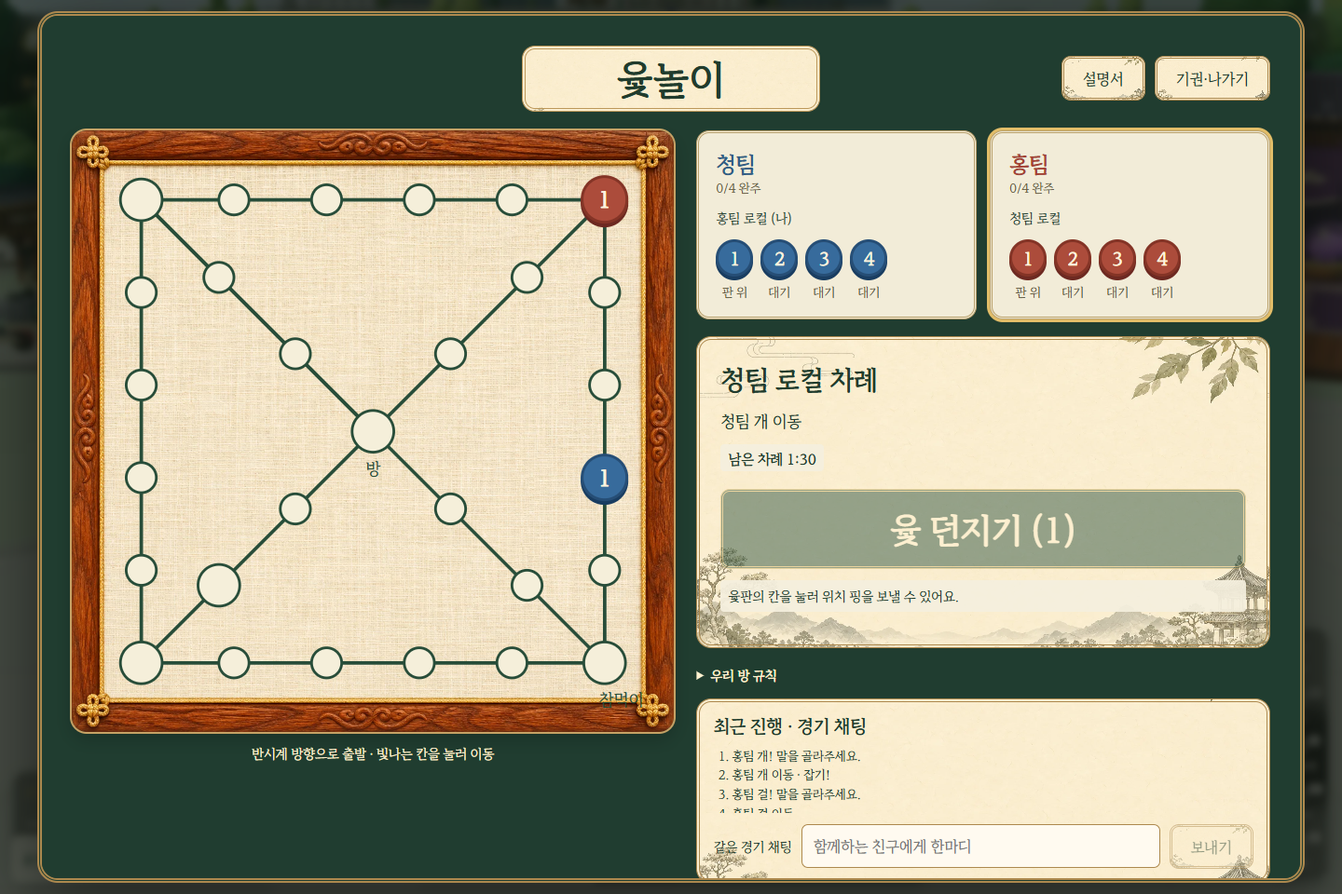
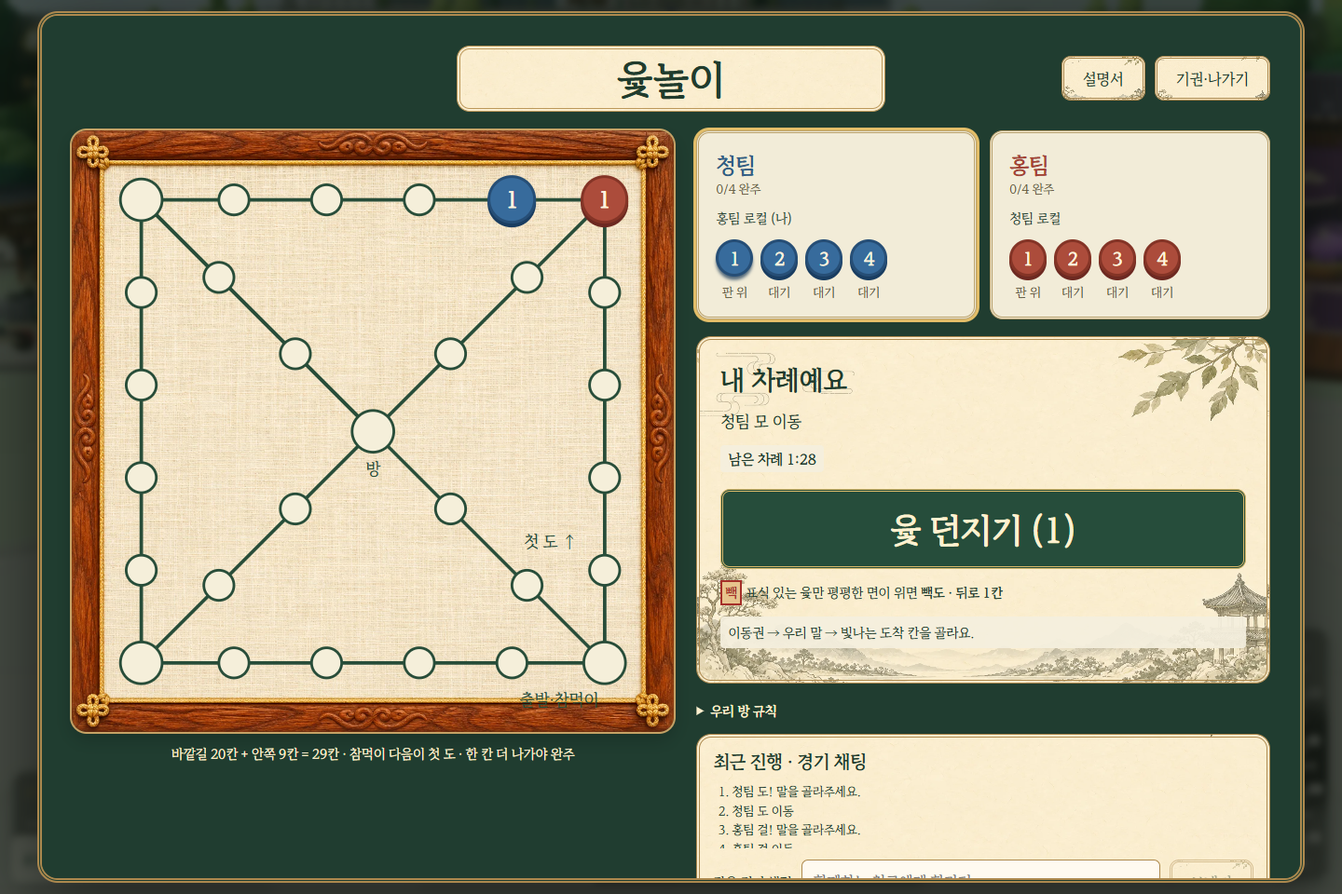
fix(yutnori): 팀 설정과 29칸 윷판 및 빽도 표시 개선

diff --git a/frontend/src/game/yutnori/YutHost.tsx b/frontend/src/game/yutnori/YutHost.tsx
@@ -4,6 +4,7 @@ import { estimatedServerTime } from '../../network/worldClient'
 import type { CoopTransport } from '../../features/skewer/coop/contracts'
 import { YutClient } from './client'
 import { Board } from './Board'
+import { StickResult } from './StickResult'
 import { defaultRules, teamName, type YutRules } from './contracts'
 import cover from './art/cover.webp'
 import './yutnori.css'
@@ -14,6 +15,8 @@ export default function YutHost({ transport, onClose }: { transport: CoopTranspo
   const [page, setPage] = useState<'catalog' | 'rooms' | 'create'>('catalog')
   const [name, setName] = useState('함께 노는 윷판')
   const [rules, setRules] = useState<YutRules>({ ...defaultRules })
+  const [teamCount, setTeamCount] = useState(2)
+  const [pieceCount, setPieceCount] = useState(4)
   const [selected, setSelected] = useState(-1)
   const [rollId, setRollId] = useState(-1)
   const [confirmExit, setConfirmExit] = useState(false)
@@ -25,19 +28,21 @@ export default function YutHost({ transport, onClose }: { transport: CoopTranspo
   const own = pub?.players.find(player => player.userId === user)
   const spectator = snapshot?.role === 'SPECTATOR'
   const playing = pub?.phase === 'PLAYING'
+  const eliminated = own !== undefined && pub?.eliminatedTeams.includes(own.team)
+  const teams = Array.from({ length: pub?.teamCount ?? teamCount }, (_, i) => i)
   useEffect(() => {
     if (!playing) return
     const timer = setInterval(() => refreshClock(value => value + 1), 1000)
     return () => clearInterval(timer)
   }, [playing])
   const seconds = Math.max(0, Math.ceil(((pub?.deadline ?? 0) - estimatedServerTime()) / 1000))
-  const myTurn = playing && !spectator && pub.turnUser === user
+  const myTurn = playing && !spectator && !eliminated && pub.turnUser === user
   const busy = pending || !connected || uncertain
   const activeRoll = pub?.rolls.find(roll => roll.id === rollId) ?? pub?.rolls[0]
   const destinations = myTurn && !busy ? pub.moves.filter(move => move.piece === selected && move.rollId === activeRoll?.id) : []
   const finished = pub?.phase === 'FINISHED'
   const leave = async (forfeit = false) => { if (!snapshot || await client.leave(forfeit)) onClose() }
-  const close = () => { if (pending) return; if (playing && !spectator) setConfirmExit(true); else void leave() }
+  const close = () => { if (pending) return; if (playing && !spectator && !eliminated) setConfirmExit(true); else void leave() }
   useEffect(() => { client.start(); return () => client.stop() }, [client])
   useEffect(() => {
     const previous = document.activeElement instanceof HTMLElement ? document.activeElement : null
@@ -51,64 +56,67 @@ export default function YutHost({ transport, onClose }: { transport: CoopTranspo
   return <dialog ref={dialog} className="yut-shell" aria-labelledby="yut-title" onCancel={event => { event.preventDefault(); close() }}>
     <header className="yut-header"><h1 ref={title} tabIndex={-1} id="yut-title">{titleText}</h1><div>
       <button type="button" onClick={() => setManual(value => !value)} aria-expanded={manual}>설명서</button>
-      <button type="button" onClick={close} disabled={pending}>{playing && !spectator ? '기권·나가기' : '공원으로'}</button>
+      <button type="button" onClick={close} disabled={pending}>{playing && !spectator && !eliminated ? '기권·나가기' : '공원으로'}</button>
     </div></header>
     {error && <p className="yut-error" role="alert">{error} <button onClick={() => void client.refresh()}>새로고침</button></p>}
     {!connected && <p className="yut-error" role="status">공원 연결을 확인하고 있어요. 다시 연결되면 방 상태를 불러옵니다.</p>}
     {uncertain && <p className="yut-error" role="alert">이전 입력의 처리 여부를 확인해야 해요. <button onClick={() => void client.retry()} disabled={pending}>같은 입력 재확인</button></p>}
-    {manual && <section className="yut-manual" aria-label="윷놀이 설명서"><h2>네 말을 먼저 내보내면 승리!</h2>
+    {manual && <section className="yut-manual" aria-label="윷놀이 설명서"><h2>우리 팀 말을 모두 내보내면 승리!</h2>
       <p>평평한 면이 위인 개수대로 도 1칸 · 개 2칸 · 걸 3칸 · 윷 4칸 · 모 5칸. 표시된 윷 하나만 위면 빽도예요. 윷·모는 한 번 더 던져요.</p>
       <p>이동권 → 말 → 빛나는 도착 칸을 순서대로 골라요. 모서리·중앙에 정확히 멈춘 뒤에만 지름길을 선택할 수 있어요. 같은 팀 말은 자동으로 업고, 잡히면 함께 대기석으로 돌아와요.</p>
       <p>상대를 잡으면 추가 던지기! 참먹이에 딱 멈추면 아직 완주가 아니에요. 한 칸 이상 더 나가야 해요. 낙은 남은 이동권과 던지기를 잃고 차례를 넘겨요. 한 차례는 90초예요.</p>
-      <p>2~4명이 청팀·홍팀 각 네 말을 공유해요. 팀 안에서도 번갈아 조작해요. 선공은 대표가 윷 두 개씩 던져 정하며 동률은 재던져요. 판·스택의 숫자는 말 번호 또는 업힌 말 개수예요.</p>
+      <p>2~4명이 참가하고, 방장이 2~4팀과 팀마다 말 1~4개를 정해요. 선택한 모든 팀에 한 명 이상 필요해요. 팀 안에서도 번갈아 조작해요. 선공은 대표가 윷 두 개씩 던져 정하며 동률은 재던져요. 판·스택의 숫자는 말 번호 또는 업힌 말 개수예요.</p>
       <p>판 위 칸을 누르면 같은 경기 참가자·관전자에게 위치 핑을 보내요. 채팅은 이 경기 안에서만 공유돼요. 빽도와 추가 기회 중복은 아래 방 규칙을 따라요.</p>
       <button onClick={() => setManual(false)}>설명서 닫기</button></section>}
-    {confirmExit ? <section className="yut-exit"><h2>나가면 우리 팀의 기권패로 끝나요.</h2><p>같은 팀원의 경기에도 적용됩니다.</p><div className="yut-actions"><button onClick={() => setConfirmExit(false)}>계속하기</button><button className="yut-primary" disabled={pending} onClick={() => void leave(true)}>기권하고 공원으로</button></div></section>
+    {confirmExit ? <section className="yut-exit"><h2>나가면 우리 팀이 탈락해요.</h2><p>같은 팀원도 함께 탈락하고, 남은 팀은 계속 경기해요. 마지막 한 팀이 승리해요.</p><div className="yut-actions"><button onClick={() => setConfirmExit(false)}>계속하기</button><button className="yut-primary" disabled={pending} onClick={() => void leave(true)}>기권하고 공원으로</button></div></section>
       : !snapshot ? page === 'catalog' ? <section className="yut-catalog">
         <button className="yut-augment-card" onClick={() => setPage('rooms')}><img src={cover} alt="나무 윷가락과 청팀·홍팀 말" /><strong>윷놀이</strong><span>업고, 잡고, 지름길로!<br />친구와 함께하는 우리 팀의 한 판</span><b>2~4인 팀전 · 무료</b></button>
         <p>놀이를 고른 뒤 방을 만들거나 친구의 방에 참가하세요.</p>
-      </section> : page === 'create' ? <form className="yut-create yut-paper" onSubmit={event => { event.preventDefault(); void client.create(name.trim(), rules) }}>
+      </section> : page === 'create' ? <form className="yut-create yut-paper" onSubmit={event => { event.preventDefault(); void client.create(name.trim(), rules, teamCount, pieceCount) }}>
         <img src={cover} className="yut-room-art" alt="전통 공원의 나무 윷놀이 도구" />
         <div><label htmlFor="yut-room-name">방 이름</label><input id="yut-room-name" value={name} maxLength={24} required onChange={event => setName(event.target.value)} />
-          <fieldset disabled={pending}><legend>시작 전에 정하는 우리 방 규칙</legend>
+          <fieldset disabled={pending}><legend>팀과 말 수</legend>
+            <div className="yut-settings"><div><label htmlFor="yut-team-count">팀 수</label><select id="yut-team-count" value={teamCount} onChange={event => setTeamCount(Number(event.target.value))}>{[2, 3, 4].map(count => <option key={count} value={count}>{count}팀</option>)}</select></div>
+            <div><label htmlFor="yut-piece-count">팀별 말 수</label><select id="yut-piece-count" value={pieceCount} onChange={event => setPieceCount(Number(event.target.value))}>{[1, 2, 3, 4].map(count => <option key={count} value={count}>{count}개</option>)}</select></div></div><p>최대 4명 · 모든 팀에 한 명 이상 필요해요.</p>
+          </fieldset><fieldset disabled={pending}><legend>시작 전에 정하는 우리 방 규칙</legend>
             <label><input type="checkbox" checked={rules.emptyBackEnters} onChange={event => setRules({ ...rules, emptyBackEnters: event.target.checked })} />판 위에 말이 없을 때 빽도: 도 자리에 새 말 놓기<small>끄면 빽도 무효</small></label>
             <label><input type="checkbox" checked={rules.doubleCaptureBonus} onChange={event => setRules({ ...rules, doubleCaptureBonus: event.target.checked })} />윷·모로 잡으면 추가 기회 중복<small>끄면 윷·모의 추가 던지기만 적용</small></label>
             <label><input type="checkbox" checked={rules.backHomeFinish} onChange={event => setRules({ ...rules, backHomeFinish: event.target.checked })} />참먹이에서 빽도면 바로 완주<small>끄면 실제로 온 길을 한 칸 되돌아감</small></label>
           </fieldset><div className="yut-actions"><button type="button" onClick={() => setPage('rooms')} disabled={pending}>돌아가기</button><button className="yut-primary" disabled={busy || !name.trim()}>방 만들기</button></div>
-        </div></form> : <section className="yut-rooms yut-paper"><div className="yut-room-intro"><img src={cover} alt="" /><div><h2>같이 놀면 더 즐거운 윷놀이</h2><p>양 팀이 준비하면 시작해요.<br />2~4인 · 팀마다 말 4개 · 무료</p><button className="yut-primary" disabled={busy} onClick={() => setPage('create')}>새 방 만들기</button></div></div>
+        </div></form> : <section className="yut-rooms yut-paper"><div className="yut-room-intro"><img src={cover} alt="" /><div><h2>같이 놀면 더 즐거운 윷놀이</h2><p>모든 팀이 준비하면 시작해요.<br />2~4팀 · 팀마다 말 1~4개 · 최대 4인 · 무료</p><button className="yut-primary" disabled={busy} onClick={() => setPage('create')}>새 방 만들기</button></div></div>
         <div className="yut-room-list"><h2>참가할 수 있는 방</h2><button disabled={pending} onClick={() => void client.refresh()}>목록 새로고침</button>
-          {rooms.length ? <ul>{rooms.map(room => <li key={room.gameId}><div><strong>{room.name}</strong><span>방장 {room.hostNickname} · {room.players}/4명 · {room.phase === 'PLAYING' ? '진행 중' : '대기 중'}</span></div>
+          {rooms.length ? <ul>{rooms.map(room => <li key={room.gameId}><div><strong>{room.name}</strong><span>방장 {room.hostNickname} · {room.players}/4명 · {room.teamCount}팀 · 말 {room.pieceCount}개 · {room.phase === 'PLAYING' ? '진행 중' : '대기 중'}</span></div>
             <button disabled={busy || room.phase === 'WAITING' && room.players >= 4} onClick={() => void client.join(room.gameId, room.phase === 'PLAYING')}>{room.phase === 'PLAYING' ? '관전하기' : '참가하기'}</button></li>)}</ul>
             : <p className="yut-empty">아직 열린 방이 없어요.<br />새 윷판을 열고 친구를 기다려 보세요.</p>}
         </div></section>
-      : pub?.phase === 'WAITING' ? <section className="yut-lobby yut-paper"><h2>{pub.roomName}</h2><p>팀을 고르고 준비해 주세요. 양 팀에 한 명 이상 필요해요.</p>
-        <div className="yut-teams">{[0, 1].map(team => <section key={team} className={`yut-team-box yut-team-${team}`}><h3>{teamName(team)}</h3>
+      : pub?.phase === 'WAITING' ? <section className="yut-lobby yut-paper"><h2>{pub.roomName}</h2><p>{pub.teamCount}팀 · 팀마다 말 {pub.pieceCount}개 · 최대 4명. 모든 팀에 한 명 이상 참가하고 준비해야 해요.</p>
+        <div className="yut-teams">{teams.map(team => <section key={team} className={`yut-team-box yut-team-${team}`}><h3>{teamName(team)}</h3>
           {pub.players.filter(player => player.team === team).map(player => <p key={player.userId}><strong>{player.nickname}</strong> {player.userId === pub.host ? '방장 · ' : ''}{player.ready ? '준비 완료' : '준비 중'}{!player.connected && ' · 연결 끊김'}</p>)}
           <button disabled={busy || own?.team === team} onClick={() => void client.lobby({ type: 'TEAM', team })}>{teamName(team)} 선택</button></section>)}</div>
         <RuleSummary rules={pub.rules} /><div className="yut-actions"><button className="yut-primary" disabled={busy} onClick={() => void client.lobby({ type: 'READY', ready: !own?.ready })}>{own?.ready ? '준비 취소' : '준비 완료'}</button>
-          {pub.host === user && <button className="yut-primary" disabled={busy || pub.players.length < 2 || pub.players.some(player => !player.ready) || new Set(pub.players.map(player => player.team)).size !== 2} onClick={() => void client.begin()}>윷놀이 시작</button>}</div>
+          {pub.host === user && <button className="yut-primary" disabled={busy || pub.players.length < 2 || pub.players.some(player => !player.ready) || new Set(pub.players.map(player => player.team)).size !== pub.teamCount} onClick={() => void client.begin()}>윷놀이 시작</button>}</div>
       </section> : pub && <>
         <div className="yut-game-layout"><section className="yut-board-region"><Board state={pub} selected={selected} destinations={destinations}
           onPiece={(team, piece) => { if (myTurn && team === pub.team) setSelected(piece) }}
           onMove={move => { if (!busy) void client.act({ type: 'MOVE', piece: selected, rollId: activeRoll!.id, shortcut: move.shortcut }) }}
           onPing={node => { if (!busy) void client.feedback(`📍 윷판 ${node}번 칸`) }} />
-          <p className="yut-board-caption">반시계 방향으로 출발 · 빛나는 칸을 눌러 이동</p>
-        </section><aside className="yut-play-panel"><div className="yut-teams">{[0, 1].map(team => <section key={team} className={`yut-team-box yut-team-${team}`} data-turn={pub.team === team && !finished}>
-          <h2>{teamName(team)} <small>{pub.pieces[team].filter(node => node === 30).length}/4 완주</small></h2>
+          <p className="yut-board-caption">바깥길 20칸 + 안쪽 9칸 = 29칸 · 참먹이 다음이 첫 도 · 한 칸 더 나가야 완주</p>
+        </section><aside className="yut-play-panel"><div className="yut-teams">{teams.map(team => <section key={team} className={`yut-team-box yut-team-${team}`} data-turn={pub.team === team && !finished} data-eliminated={pub.eliminatedTeams.includes(team)}>
+          <h2>{teamName(team)} <small>{pub.pieces[team].filter(node => node === 30).length}/{pub.pieceCount} 완주{pub.eliminatedTeams.includes(team) && ' · 탈락'}</small></h2>
           <p>{pub.players.filter(player => player.team === team).map(player => player.nickname + (player.userId === user ? ' (나)' : '')).join(' · ')}</p>
           <div className="yut-piece-rack">{pub.pieces[team].map((node, piece) => <button key={piece} className={`yut-token yut-team-${team}`} disabled={!myTurn || team !== pub.team || node === 30 || busy}
             aria-pressed={selected === piece && pub.team === team} aria-label={`${teamName(team)} ${piece + 1}번 말 선택`}
-            onClick={() => setSelected(piece)}>{node === 30 ? '✓' : piece + 1}<small>{node === 0 ? '대기' : node === 30 ? '완주' : '판 위'}</small></button>)}</div>
+            onClick={() => setSelected(piece)}>{node === 30 ? '✓' : piece + 1}<small>{pub.eliminatedTeams.includes(team) ? '탈락' : node === 0 ? '대기' : node === 30 ? '완주' : '판 위'}</small></button>)}</div>
         </section>)}</div>
-          <section className="yut-turn yut-paper" aria-live="polite"><h2>{finished ? pub.winner < 0 ? '경기 종료' : `${teamName(pub.winner)} 승리!` : spectator ? '관전 중' : myTurn ? '내 차례예요' : `${pub.players.find(player => player.userId === pub.turnUser)?.nickname ?? teamName(pub.team)} 차례`}</h2>
+          <section className="yut-turn yut-paper" aria-live="polite"><h2>{finished ? pub.winner < 0 ? '경기 종료' : `${teamName(pub.winner)} 승리!` : eliminated ? '우리 팀 탈락 · 관전 중' : spectator ? '관전 중' : myTurn ? '내 차례예요' : `${pub.players.find(player => player.userId === pub.turnUser)?.nickname ?? teamName(pub.team)} 차례`}</h2>
             <p>{pub.message}</p>
             {playing && <p className={`yut-countdown ${seconds <= 15 ? 'yut-countdown--urgent' : ''}`} role="timer" aria-live="off">남은 차례 {Math.floor(seconds / 60)}:{String(seconds % 60).padStart(2, '0')}</p>}
-            {finished ? <><p>{pub.reason === 'YUT_COMPLETED' ? '우리 팀 말 네 개가 모두 완주했어요.' : pub.reason === 'YUT_TURN_TIMEOUT' ? '90초 안에 차례를 마치지 못했어요.' : pub.reason === 'YUT_FORFEIT' ? '한 팀이 기권했어요.' : '연결 유예 시간이 지나 경기가 종료되었어요.'}</p><button className="yut-primary" disabled={pending} onClick={() => void leave()}>공원으로 돌아가기</button></>
+            {finished ? <><p>{pub.reason === 'YUT_COMPLETED' ? '승리 팀의 말이 모두 완주했어요.' : pub.reason === 'YUT_TURN_TIMEOUT' ? '90초 안에 차례를 마치지 못했어요.' : pub.reason === 'YUT_FORFEIT' ? '기권 후 마지막 남은 팀이 승리했어요.' : '연결 유예 시간이 지나 경기가 종료되었어요.'}</p><button className="yut-primary" disabled={pending} onClick={() => void leave()}>공원으로 돌아가기</button></>
               : <><button className="yut-primary yut-throw" disabled={!myTurn || busy || pub.credits < 1 || pub.rolls.length >= 32} onClick={() => void client.act({ type: 'THROW' })}>{pending ? '확인 중…' : '윷 던지기'} {pub.credits > 0 && `(${pub.credits})`}</button>
-                <p className="yut-help">{myTurn ? '이동권 → 우리 말 → 빛나는 도착 칸을 골라요.' : '윷판의 칸을 눌러 위치 핑을 보낼 수 있어요.'}</p>
+                <p className="yut-backdo-key"><span aria-hidden="true">빽</span> 표식 있는 윷만 평평한 면이 위면 <strong>빽도 · 뒤로 1칸</strong></p><p className="yut-help">{myTurn ? '이동권 → 우리 말 → 빛나는 도착 칸을 골라요.' : '윷판의 칸을 눌러 위치 핑을 보낼 수 있어요.'}</p>
                 <div className="yut-rolls" aria-label="모아 둔 이동권">{pub.rolls.map(roll => <button key={roll.id} disabled={!myTurn || busy} aria-pressed={activeRoll?.id === roll.id} onClick={() => { setRollId(roll.id); setSelected(-1) }}>
-                  <span className="yut-stick-result" aria-label={`평평한 면 위 ${roll.mask.toString(2).replaceAll('0', '').length}개`}>{[0, 1, 2, 3].map(index => <i key={index} data-up={!!(roll.mask & 1 << index)}>{index === 0 ? '×' : '·'}</i>)}</span><strong>{roll.name}</strong></button>)}</div>
-                {!!destinations.length && <div className="yut-actions">{destinations.filter((move, i, all) => all.findIndex(value => value.to === move.to) === i).map(move => <button key={String(move.shortcut)} disabled={busy} onClick={() => void client.act({ type: 'MOVE', piece: selected, rollId: activeRoll!.id, shortcut: move.shortcut })}>{move.to === 30 ? '완주하기' : `${move.shortcut ? '지름길' : '기본 길'} · ${move.to}번 칸`}</button>)}</div>}
+                  <StickResult mask={roll.mask} /><strong>{roll.name}</strong><small>{roll.steps === -1 ? '뒤로 1칸' : `앞으로 ${roll.steps}칸`}</small></button>)}</div>
+                {!!destinations.length && <div className="yut-actions">{destinations.filter((move, i, all) => all.findIndex(value => value.to === move.to) === i).map(move => <button key={String(move.shortcut)} disabled={busy} onClick={() => void client.act({ type: 'MOVE', piece: selected, rollId: activeRoll!.id, shortcut: move.shortcut })}>{move.to === 30 ? '완주하기' : `${move.shortcut ? '지름길' : '기본 길'} · ${activeRoll!.steps === -1 ? '뒤로 1칸' : `${activeRoll!.steps}칸 이동`}${move.to === 20 ? ' · 참먹이' : ''}`}</button>)}</div>}
               </>}
           </section><RuleSummary rules={pub.rules} /><YutSocial client={client} log={pub.log} busy={busy} /></aside></div>
       </>}

diff --git a/frontend/src/game/yutnori/contracts.ts b/frontend/src/game/yutnori/contracts.ts
@@ -8,24 +8,28 @@ export interface YutSnapshot {
     gameCode: 'YUTNORI'; phase: 'WAITING' | 'PLAYING' | 'FINISHED'; channelId: string; roomName: string
     host: string; turnUser: string; team: number; credits: number; deadline: number; winner: number; reason: string
     message: string; entryFee: 0; rules: YutRules; players: YutPlayer[]; rolls: YutRoll[]; pieces: number[][]
-    moves: YutMove[]; opening: number[]; log: string[]
+    moves: YutMove[]; opening: number[]; log: string[]; teamCount: number; pieceCount: number; eliminatedTeams: number[]
   }
 }
-export interface YutRoom { gameId: string; name: string; hostNickname: string; players: number; phase: string }
+export interface YutRoom { gameId: string; name: string; hostNickname: string; players: number; phase: string; teamCount: number; pieceCount: number }
 export const defaultRules: YutRules = { emptyBackEnters: false, doubleCaptureBonus: false, backHomeFinish: false }
-export const teamName = (team: number) => team === 0 ? '청팀' : '홍팀'
+export const teamName = (team: number) => ['청팀', '홍팀', '녹팀', '황팀'][team] ?? '알 수 없는 팀'
 const object = (value: unknown): value is Record<string, unknown> => !!value && typeof value === 'object' && !Array.isArray(value)
 export function parseYut(value: unknown): YutSnapshot | null {
   if (!object(value) || typeof value.gameId !== 'string' || !value.gameId.startsWith('yut-')
     || !Number.isSafeInteger(value.version) || (value.version as number) < 0 || typeof value.registered !== 'boolean'
     || !['PLAYER', 'SPECTATOR'].includes(String(value.role)) || !object(value.publicState)) return null
   const p = value.publicState
+  const validTeam = (team: unknown) => Number.isInteger(team) && (team as number) >= 0 && (team as number) < (p.teamCount as number)
   if (p.gameCode !== 'YUTNORI' || !['WAITING', 'PLAYING', 'FINISHED'].includes(String(p.phase))
+    || ![2, 3, 4].includes(p.teamCount as number) || ![1, 2, 3, 4].includes(p.pieceCount as number)
+    || !Array.isArray(p.eliminatedTeams) || !p.eliminatedTeams.every(validTeam)
+    || new Set(p.eliminatedTeams).size !== p.eliminatedTeams.length
     || !Array.isArray(p.players) || p.players.length < 1 || p.players.length > 4
     || !p.players.every(player => object(player) && typeof player.userId === 'string' && typeof player.nickname === 'string'
-      && [0, 1].includes(player.team as number) && typeof player.ready === 'boolean' && typeof player.connected === 'boolean')
-    || !Array.isArray(p.pieces) || p.pieces.length !== 2 || !p.pieces.every(tokens => Array.isArray(tokens)
-      && tokens.length === 4 && tokens.every(node => Number.isInteger(node) && node >= 0 && node <= 30))
+      && validTeam(player.team) && typeof player.ready === 'boolean' && typeof player.connected === 'boolean')
+    || !Array.isArray(p.pieces) || p.pieces.length !== p.teamCount || !p.pieces.every(tokens => Array.isArray(tokens)
+      && tokens.length === p.pieceCount && tokens.every(node => Number.isInteger(node) && node >= 0 && node <= 30))
     || !Array.isArray(p.rolls) || !p.rolls.every(roll => object(roll) && Number.isInteger(roll.id)
       && typeof roll.name === 'string' && Number.isInteger(roll.steps) && Number.isInteger(roll.mask))
     || !Array.isArray(p.moves) || !p.moves.every(move => object(move) && Number.isInteger(move.piece)
@@ -33,7 +37,7 @@ export function parseYut(value: unknown): YutSnapshot | null {
     || !Array.isArray(p.log) || !p.log.every(line => typeof line === 'string') || !Array.isArray(p.opening)
     || !object(p.rules) || !Object.values(p.rules).every(rule => typeof rule === 'boolean')
     || !['host', 'turnUser', 'roomName', 'channelId', 'message', 'reason'].every(key => typeof p[key] === 'string')
-    || ![0, 1].includes(p.team as number) || ![-1, 0, 1].includes(p.winner as number)
+    || !validTeam(p.team) || !(p.winner === -1 || validTeam(p.winner))
     || !Number.isInteger(p.credits) || !Number.isSafeInteger(p.deadline) || p.entryFee !== 0) return null
   return value as unknown as YutSnapshot
 }

diff --git a/frontend/tests/local-unit/yutnori.test.ts b/frontend/tests/local-unit/yutnori.test.ts
@@ -1,4 +1,6 @@
 import { describe, expect, it, vi } from 'vitest'
+import { boardNodes, boardJunctions, boardPoint } from '../../src/game/yutnori/Board'
+import { stickFaces } from '../../src/game/yutnori/StickResult'
 import { parseYut } from '../../src/game/yutnori/contracts'
 import { YutClient } from '../../src/game/yutnori/client'
 import type { CoopTransport } from '../../src/features/skewer/coop/contracts'
@@ -6,7 +8,7 @@ import type { CoopTransport } from '../../src/features/skewer/coop/contracts'
 function snapshot() {
   return { gameId: 'yut-test', version: 1, registered: true, role: 'PLAYER', publicState: {
     gameCode: 'YUTNORI', phase: 'PLAYING', channelId: 'channel-1', roomName: '함께', host: '101', turnUser: '101',
-    team: 0, credits: 1, deadline: 90000, winner: -1, reason: '', message: '', entryFee: 0,
+    teamCount: 2, pieceCount: 4, eliminatedTeams: [], team: 0, credits: 1, deadline: 90000, winner: -1, reason: '', message: '', entryFee: 0,
     rules: { emptyBackEnters: false, doubleCaptureBonus: false, backHomeFinish: false },
     players: [{ userId: '101', nickname: '청', team: 0, ready: true, connected: true },
       { userId: '202', nickname: '홍', team: 1, ready: true, connected: true }],
@@ -47,5 +49,38 @@ describe('윷놀이 서버 계약과 유실 입력 복구', () => {
     expect(requests[1]).toEqual(requests[0])
     expect(client.store.getState().uncertain).toBe(false)
     client.stop()
+  })
+})
+
+
+describe('공식 29칸과 빽도 표식, 다팀 계약', () => {
+  it('바깥 20칸 안쪽 9칸을 중복 없이 그리고 다섯 교차점만 크게 그린다', () => {
+    expect(boardNodes).toHaveLength(29)
+    expect(new Set(boardNodes.map(node => boardPoint(node).join(','))).size).toBe(29)
+    expect(boardJunctions).toEqual([5, 10, 15, 20, 23])
+    expect(boardJunctions).not.toContain(25)
+    expect(boardPoint(20)).toEqual([460, 460])
+    expect(boardPoint(1)).toEqual([460, 380])
+  })
+  it('16가지 조합에서 표식은 첫 윷의 평평한 면에만 나타난다', () => {
+    for (let mask = 0; mask < 16; mask++) {
+      const faces = stickFaces(mask)
+      expect(faces.filter(face => face.marked)).toHaveLength(mask & 1 ? 1 : 0)
+      expect(faces.slice(1).every(face => !face.marked)).toBe(true)
+    }
+    expect(stickFaces(1)).toEqual([{ flat: true, marked: true }, ...Array.from({ length: 3 }, () => ({ flat: false, marked: false }))])
+  })
+  it('2~4팀과 말 1~4개를 받고 팀과 말의 범위가 다른 응답을 거절한다', () => {
+    for (const teams of [2, 3, 4]) for (const pieces of [1, 2, 3, 4]) {
+      const state = snapshot()
+      state.publicState.teamCount = teams; state.publicState.pieceCount = pieces
+      state.publicState.pieces = Array.from({ length: teams }, () => Array(pieces).fill(0))
+      state.publicState.winner = teams - 1
+      expect(parseYut(state)).not.toBeNull()
+      state.publicState.players[0].team = teams
+      expect(parseYut(state)).toBeNull()
+    }
+    const wrong = snapshot(); wrong.publicState.pieceCount = 3
+    expect(parseYut(wrong)).toBeNull()
   })
 })

diff --git a/frontend/src/game/yutnori/Board.tsx b/frontend/src/game/yutnori/Board.tsx
@@ -1,4 +1,7 @@
-import type { YutMove, YutSnapshot } from './contracts'
+import { teamName, type YutMove, type YutSnapshot } from './contracts'
+
+export const boardNodes = Array.from({ length: 29 }, (_, i) => i + 1)
+export const boardJunctions = [5, 10, 15, 20, 23]
 
 export function boardPoint(node: number): [number, number] {
   if (node <= 5) return [460, 460 - node * 80]
@@ -18,14 +21,15 @@ export function Board({ state, selected, destinations, onPiece, onMove, onPing }
   return <div className="yut-board" aria-label="29칸 윷판">
     <svg viewBox="0 0 520 520" role="img" aria-label="바깥길과 대각선 지름길">
       <path d="M60 60H460V460H60ZM60 60L460 460M460 60L60 460" fill="none" stroke="currentColor" strokeWidth="3" />
-      {Array.from({ length: 29 }, (_, i) => i + 1).map(node => {
+      {boardNodes.map(node => {
         const [x, y] = boardPoint(node)
-        return <g key={node}><circle cx={x} cy={y} r={node % 5 === 0 || node === 23 ? 18 : 13} />
-          {node === 20 && <text x={x - 5} y={y + 36}>참먹이</text>}
+        return <g key={node}><circle data-node={node} cx={x} cy={y} r={boardJunctions.includes(node) ? 18 : 13} />
+          {node === 20 && <text x={x - 5} y={y + 36} textAnchor="end">출발·참먹이</text>}
+          {node === 1 && <text x={x - 24} y={y - 20} textAnchor="end">첫 도 ↑</text>}
           {node === 23 && <text x={x} y={y + 37} textAnchor="middle">방</text>}</g>
       })}
     </svg>
-    {Array.from({ length: 29 }, (_, i) => i + 1).map(node => {
+    {boardNodes.map(node => {
       const [x, y] = boardPoint(node), destination = destinations.find(move => move.to === node)
       return <button key={node} className={`yut-board-node ${destination ? 'yut-destination' : ''}`}
         style={{ left: `${x / 5.2}%`, top: `${y / 5.2}%` }} aria-label={destination ? `${node}번 칸으로 ${destination.shortcut ? '지름길' : '기본 길'} 이동` : `${node}번 칸 핑 보내기`}
@@ -36,7 +40,7 @@ export function Board({ state, selected, destinations, onPiece, onMove, onPing }
       const [x, y] = boardPoint(node), count = tokens.filter(at => at === node).length
       return <button key={`${team}:${piece}`} className={`yut-token yut-team-${team}`}
         style={{ left: `${x / 5.2}%`, top: `${y / 5.2}%` }}
-        aria-label={`${team === 0 ? '청팀' : '홍팀'} ${piece + 1}번 말${count > 1 ? ` ${count}개 업힘` : ''}`}
+        aria-label={`${teamName(team)} ${piece + 1}번 말${count > 1 ? ` ${count}개 업힘` : ''}`}
         aria-pressed={team === state.team && state.pieces[team][selected] === node} onClick={() => onPiece(team, piece)}>{count > 1 ? count : piece + 1}</button>
     }))}
   </div>

diff --git a/frontend/src/game/yutnori/yutnori.css b/frontend/src/game/yutnori/yutnori.css
@@ -15,4 +15,8 @@
 .yut-social h2{font-size:19px;margin-bottom:8px}
 .yut-social ol{font-size:13px;max-height:72px;margin:8px 0 12px}
 .yut-social form{min-width:0}.yut-social input{flex:1}
-@media(min-width:901px){.yut-header{display:grid;grid-template-columns:1fr minmax(160px,320px) 1fr}.yut-header h1{grid-column:2;text-align:center;padding:4px 14px;border:4px double #bc985a;border-radius:14px;background:#f4efde url('/art/tablet/hanji.webp') center/cover;color:#213c2d;margin:0}.yut-header>div{grid-column:3;justify-self:end}}
+@media(min-width:901px){.yut-header{display:grid;grid-template-columns:1fr minmax(160px,460px) 1fr}.yut-header h1{grid-column:2;text-align:center;padding:4px 14px;border:4px double #bc985a;border-radius:14px;background:#f4efde url('/art/tablet/hanji.webp') center/cover;color:#213c2d;margin:0}.yut-header>div{grid-column:3;justify-self:end}}
+
+.yut-shell select{font:inherit;width:100%;min-height:44px;padding:8px 12px;border:2px solid #ad894e;border-radius:8px;background:#fffaf0;color:#213c2d}.yut-shell select:focus-visible{outline:3px solid #e1b343;outline-offset:3px}.yut-settings{display:grid;grid-template-columns:1fr 1fr;gap:18px}
+.yut-team-box.yut-team-2 h2,.yut-team-box.yut-team-2 h3{color:#2b704c}.yut-team-box.yut-team-3 h2,.yut-team-box.yut-team-3 h3{color:#785300}.yut-shell .yut-token.yut-team-2{background:#337750;border-color:#1e5536;box-shadow:0 4px 0 #173f29}.yut-shell .yut-token.yut-team-3{background:#d2a238;color:#2d290e;border-color:#856013;box-shadow:0 4px 0 #63470d}.yut-team-box[data-eliminated=true]{border-style:dashed}.yut-team-box[data-eliminated=true] .yut-token{opacity:.5}
+.yut-stick-result{gap:6px;justify-content:center}.yut-stick-result i{width:23px;height:58px;line-height:56px;text-align:center;border-radius:45%;background:linear-gradient(90deg,#6f4526,#ad7946 48%,#754b29);color:#5b3920}.yut-stick-result i[data-up=true]{background:#e7c38d;border-radius:4px;border-width:2px}.yut-stick-result i[data-marked=true]{color:#a52f29;font-size:18px;font-weight:900;border-color:#a52f29}.yut-rolls small{display:block}.yut-backdo-key{font-size:14px!important;margin:12px 0!important}.yut-backdo-key>span{display:inline-grid;place-items:center;color:#a52f29;border:2px solid #a52f29;background:#e7c38d;padding:0 3px;font-weight:900}

diff --git a/frontend/tests/fixtures/yutBackdo.tsx b/frontend/tests/fixtures/yutBackdo.tsx
@@ -1,0 +1,17 @@
+import { createRoot } from 'react-dom/client'
+import { StickResult } from '../../src/game/yutnori/StickResult'
+
+let cleanup = () => {}
+/** 무작위 서버 결과를 바꾸지 않고 실제 빽도 결과 컴포넌트의 모양만 확인한다. */
+export function mountBackdoFixture() {
+  if (!import.meta.env.DEV || !['localhost', '127.0.0.1'].includes(location.hostname)) throw new Error('로컬 시각 검수 전용입니다.')
+  cleanup()
+  const box = document.createElement('aside')
+  box.id = 'backdo-visual-fixture'; box.className = 'yut-shell'
+  box.style.cssText = 'position:fixed;inset:20px auto auto 20px;z-index:9999;width:300px;background:#f4efde;color:#213c2d'
+  document.body.append(box)
+  const root = createRoot(box)
+  root.render(<><strong>빽도 · 뒤로 1칸</strong><StickResult mask={1} /><p>평평한 면 1개 · 둥근 면 3개</p></>)
+  cleanup = () => { root.unmount(); box.remove() }
+}
+export function removeBackdoFixture() { cleanup() }

diff --git a/frontend/src/game/yutnori/client.ts b/frontend/src/game/yutnori/client.ts
@@ -80,9 +80,9 @@ export class YutClient {
         : failure.code === 'GAME_RECOVERY_REQUIRED' ? '연결을 복구한 뒤 다시 시도해주세요.' : failure.message ?? '요청을 확인하지 못했어요. 다시 시도해주세요.' })
     } finally { if (!this.stopped) { this.store.setState({ pending: false }); await this.refresh() } }
   }
-  create(roomName: string, rules: YutRules) {
+  create(roomName: string, rules: YutRules, teamCount = 2, pieceCount = 4) {
     return this.run(async () => { this.install(await this.post('/rooms', { channelId: this.transport.scope().channelId,
-      requestKey: this.key, roomName, rules })) })
+      requestKey: this.key, roomName, rules, teamCount, pieceCount })) })
   }
   join(gameId: string, watch = false) {
     return this.run(async () => { this.install(await this.post(watch ? '/watch' : '/rooms', { gameId, channelId: this.transport.scope().channelId })) })

diff --git a/frontend/src/game/yutnori/StickResult.tsx b/frontend/src/game/yutnori/StickResult.tsx
@@ -1,0 +1,9 @@
+/** 첫 번째 윷의 평평한 면에만 빽도 표식이 새겨져 있다. */
+export function stickFaces(mask: number) {
+  return [0, 1, 2, 3].map(index => ({ flat: !!(mask & 1 << index), marked: index === 0 && !!(mask & 1) }))
+}
+export function StickResult({ mask }: { mask: number }) {
+  return <span className="yut-stick-result" aria-label={stickFaces(mask).map((face, index) => `${index + 1}번 윷 ${face.flat ? '평평한 면' : '둥근 면'} 위${face.marked ? ' 빽도 표식' : ''}`).join(', ')}>
+    {stickFaces(mask).map((face, index) => <i key={index} data-up={face.flat} data-marked={face.marked} aria-hidden="true">{face.marked ? '빽' : face.flat ? '│' : ''}</i>)}
+  </span>
+}

diff --git a/frontend/src/park/runtime/SpringParkRuntime.ts b/frontend/src/park/runtime/SpringParkRuntime.ts
@@ -780,7 +780,7 @@ export class ParkRuntime implements ParkRuntimePort {
     if (message.type === 'GAME_CONNECTION_STATE' && String(message.payload.gameId ?? '').startsWith('yut-')) {
       routeCoopMessage(message)
       const state = message.payload.state as { publicState?: { phase?: string } } | undefined
-      if (state?.publicState?.phase === 'PLAYING') requestYut()
+      if (state?.publicState?.phase === 'PLAYING' && message.payload.status !== 'ELIMINATED') requestYut()
       if (!useGame.getState().game) useGame.setState({ recovery: 'LOBBY' })
       return
     }

diff --git a/frontend/docs/yutnori/README.md b/frontend/docs/yutnori/README.md
@@ -10,7 +10,7 @@
 
 `전통놀이존 입구 → E → 윷놀이 카드 → 방 만들기/참가 → 팀 선택 → 전원 준비 → 방장 시작`.
 
-게임 코드는 `YUTNORI`. 2~4명이 두 팀으로 나뉘어 팀당 말 4개를 공유하고, 같은 팀 안에서도 차례를 번갈아 맡는다. 무료 경기이며 판돈·지갑·보상을 변경하지 않는다. 방은 같은 공원 채널에서만 조회·참가한다. 서버는 현재 인증 소켓·맵 일치·시설/테이블 충돌·입구 위치를 확인한다.
+게임 코드는 `YUTNORI`. 방을 만들 때 2~4팀과 팀별 말 1~4개를 선택한다. 최대 4명이 참가하며 선택한 모든 팀에 한 명 이상 필요하다. 같은 팀이 말을 공유하고, 같은 팀 안에서도 차례를 번갈아 맡는다. 무료 경기이며 판돈·지갑·보상을 변경하지 않는다. 방은 같은 공원 채널에서만 조회·참가한다. 서버는 현재 인증 소켓·맵 일치·시설/테이블 충돌·입구 위치를 확인한다.
 
 대기 상태는 기존 인증 REST 전송 포트로, 시작 이후 입력은 기존 `GAME_ACTION_SEND`, `GAME_STATE_CHECK`, `GAME_RECONNECT_CHECK`, `GAME_FORFEIT`로 보낸다. 별도 WS 프로토콜·라우터·지갑을 만들지 않는다. 무료 세션 등록을 명시적으로 허용하며 공통 라우터의 사용자 점유 검사는 유지한다. `privateState`는 빈 객체다. 관전자는 서버가 허용한 같은 경기의 공개 상태만 읽으며 행동을 제출할 수 없다.
 
@@ -24,7 +24,7 @@
 - 참먹이 빽도는 기본 실제 경로로 후퇴, 선택하면 완주다. 규칙은 생성 후 고정한다.
 - 4개 윷면은 서버에서 균등 조합으로 생성한다. 디지털 낙은 던지기별 2% 확률이며 실제 물리 시뮬레이션이 아니다. 낙이면 보관 이동권·추가 던지기를 잃는다.
 - 대표 윷 2개씩의 선공 순위: 모두 엎어짐 > 모두 젖혀짐 > 엇갈림. 동률은 다시 던진다.
-- 한 차례 90초. 시간 초과·기권·접속 유예 만료는 해당 팀의 패배다.
+- 한 차례 90초. 시간 초과·기권·접속 유예 만료는 해당 팀만 탈락시키고 말을 치운다. 남은 팀은 계속 진행하며 마지막 생존 팀이 승리한다. 탈락자는 공원으로 돌아가 다른 방에 참가할 수 있다.
 - 대기방 10분 무활동 시 취소, 종료 기록 메모리 보관 30분. 진행 상태의 서버 재시작 복원은 지원하지 않는다.
 - 동일 `actionId` 재전송은 같은 영수증, 다른 내용은 충돌이다. 낡은 `expectedVersion`, 다른 사용자 차례, 관전자 입력을 거절한다. FE는 응답 불명 입력을 보관하고 같은 ID로 재확인한다.
 - 관전자와 참가자는 경기 전용 채팅·판 위치 핑을 공유한다. 1초 간격·100자 제한이며 다른 경기에는 전파하지 않는다.
@@ -59,7 +59,7 @@ node node_modules/typescript/bin/tsc --noEmit
 
 ## V186 및 저장소
 
-`backend/src/main/resources/db/migration/V186__create_yutnori_results.sql` 하나를 추가했다. `yutnori_results`에 종료 결과 JSON을 경기 ID 기준 멱등 저장하며 지갑·공통 판돈 세션에는 INSERT하지 않는다. 기존 Flyway 파일·location 설정은 변경하지 않는다.
+`backend/src/main/resources/db/migration/V186__create_yutnori_results.sql` 하나를 추가했다. `yutnori_results`에 종료 결과 JSON을 경기 ID 기준 멱등 저장하며 지갑·공통 판돈 세션에는 INSERT하지 않는다. 다른 Flyway 파일·location 설정은 변경하지 않는다. 2026-11-21 사용자가 V186은 공유 DB 미적용이라고 확인하고 같은 파일 통합을 요청하여, 이 파일의 승리 팀 CHECK를 -1/0/1/2/3으로 확장했다. 새 버전 파일은 추가하지 않았다.
 
 사용자가 V186 사용을 지정했다. 생성 전 dev·모든 가져온 원격 브랜치/MR 참조와 로컬 worktree에서 V186 파일이 없음을 확인했다. MR 참조의 open/closed 상태와 별도 팀 예약은 확인 불가다. 실제 MySQL 8.4 및 DB 순차 적용·쓰기 검증은 담당자 확인이 필요하다. 로컬 fixture에서는 메모리 경기만 동작하며 DB 저장 성공으로 보고하지 않는다. DB 쓰기 실패는 주기적으로 재시도하지만 프로세스 종료나 보관 기간 만료 후 저장을 보장하지 않는다.
 
@@ -82,3 +82,14 @@ Image Gen 내장 도구로 만든 `art/cover.webp`와 `art/board.webp`를 사용
 1. Concept: Korean OnTop multiplayer Yutnori full main screen, hanji ivory, forest green, gold double borders, square 29-node board, native UI controls, four blue/red tokens per team, throw and move controls, recent turns.
 2. Cover: warm miniature 3D carved wooden four yut sticks with one marked backdo, red/blue tokens on ivory mat, Korean pavilion and pine, forest green/gold frame, no text.
 3. Board: square top-down blank ivory linen mat, thick carved wooden frame with gold trim and corner knots; empty center for native interactive graph; no circles, lines, tokens or text.
+
+
+## 다팀·칸 수·빽도 후속 수정
+
+- 방 설정은 생성 시 확정하며 기본값은 2팀·말 4개다. FE/BE 공개 상태의 teamCount, pieceCount, eliminatedTeams를 함께 사용한다. 최대 4인 계약은 유지한다.
+- 실제 윷판은 바깥 20 + 안쪽 9 = 29칸이다. 참먹이는 판 위의 한 칸이고 대기석과 완주 상태는 별도 칸으로 그리지 않는다. 대각선 25번 노드가 모서리처럼 크게 그려지던 오류를 고쳤다. 큰 표시는 모서리 4곳과 중앙 1곳뿐이다.
+- 서버 이동은 첫 도 1칸, 바깥길 20칸째 참먹이, 그다음 1칸 완주로 검증한다. 최단 경로는 5+3+3으로 참먹이, 추가 1로 완주다. 완주 규칙은 사용자가 처음 정한 규칙을 따른다.
+- 첫 윷의 평평한 면에 붉은 ‘빽’을 표시하고 둥근 면은 숨긴다. 결과에 ‘빽도·뒤로 1칸’과 항상 보이는 표식 안내를 제공한다.
+- 확인 자료: [국립민속박물관](https://webzine.nfm.go.kr/2021/02/01/설날의-윷놀이-출발과-귀환의-즐거운-한-판/), [한국민족문화대백과사전](https://encykorea.aks.ac.kr/Article/E0042794), [한국문화원연합회 실제 윷판 사진이 있는 설명](https://www.kculture.or.kr/brd/board/682/L/menu/704?bbIdx=13683&brdType=R). 사진은 참고로만 열었고 제품에 복사하지 않았다.
+- 다팀 브라우저 검수: frontend에서 node scripts/verify-yutnori-four.mjs. 기존 2팀 회귀는 node scripts/verify-yutnori.mjs.
+- 네 번째 검수 계정은 기존 테스트 전용 fixture에 606을 추가했다. role=yellow로 접속하며 실제 회원 계정을 만들지 않는다. 다른 브라우저 context에서 role=viewer(505)를 세 번째 팀으로 참가시키면 4팀 검수가 가능하다.

diff --git a/frontend/docs/yutnori/VALIDATION.md b/frontend/docs/yutnori/VALIDATION.md
@@ -1,5 +1,7 @@
 # 윷놀이 검증 기록 — 2026-11-21
 
+최신 결과: BE 100개·FE 5개·TypeScript 통과. 실제 4팀·16개 말 전체 흐름과 기본 2팀의 재접속·관전·기권·두 계정 공원 이동이 모두 통과했다. 후속 검증 상세는 문서 마지막에 있다.
+
[1 lines of base64/hex data omitted]
 
 ## 자동 검사
@@ -55,3 +57,22 @@
 - 서버 재시작 시 진행 중인 윷놀이 복원은 보장하지 않는다. 종료 기록 저장 실패는 재시도하지만 메모리 보관 기간/프로세스 종료 이후의 저장은 보장하지 않는다.
 - MR·머지는 사용자 명시 요청 전까지 보류한다. Jenkins는 실제 빌드 조회 권한/접속 정보가 없어 결과 미확인이다. 저장소 Jenkinsfile은 dev 대상이다.
 - 작업 브랜치는 통합/빌드 성공 후 삭제 조건이 충족되지 않아 유지한다.
+
+
+## 4팀·팀별 말 수·윷판·빽도 후속 검증 (2026-11-21)
+
+- 최신 dev 기준은 그대로 2aecab6531b06ec3c919726baf41cf75e31a059c이며 재확인 후 포함 관계를 확인했다. 맵·인프라 파일은 변경하지 않았다.
+- BE: YutRulesTests 14, YutEngineTests 9, GameEngineRouterTests 12, TableHubSkewerEntryTests 16 = 51개 통과. GameReconnectConsistencyTests 13, TerminalGameRecoveryTests 7, StoredTerminalGameRecoveryTests 9, GameReconnectTests 20 = 기존 복구 49개 통과. 총 100개다.
+- FE: yutnori.test.ts 5개 통과. 29개 고유 좌표, 모서리·중앙 5개, 첫 도·참먹이 위치, 16조합 표식, 2~4팀×말 1~4개 계약, 유실 입력 재전송을 확인했다.
+- BE 규칙: 첫 이동은 1칸, 바깥길 20칸째는 참먹이, 그다음 한 칸이 완주. 최단은 5+3+3+1=12. 중앙을 지나칠 때 방향을 바꾸지 않으며, 네 번째 팀의 승리·다른 팀 잡기·팀 탈락/90초 만료/연결 만료·새 경기 점유와 복구를 확인했다.
+- 참고 자료의 원본 윷판 사진은 임시 파일로 열어 확인했다. 29칸에서 네 모서리와 중앙이 강조되는 배치와 비교하여, 대각선 일반 칸 25가 크게 그려지던 표시를 수정했다. 외부 이미지는 제품에 포함하지 않았다.
+- V186은 dev·가져온 모든 원격 브랜치와 MR 참조·로컬 worktree의 전체 DB location을 확인했으며 이 작업에만 존재했다. 별도 팀 예약 및 참조의 open/closed 상태는 확인 불가다. 사용자에게 공유 후 ‘공유 DB 미적용, V186에 합쳐달라’는 답변을 받아 승리 팀 CHECK를 -1/0/1/2/3으로 확장했다. DB 적용은 하지 않았다.
+- 최초 추가 테스트의 람다 캡처 컴파일 오류를 수정 후 재실행했다. 브라우저 검수에서 팀 선택 라벨에 선택지 텍스트가 섞이는 문제를 고쳤다. 검수용 동적 import가 HMR 전 별도 런타임을 참조하던 상태 조회는 실제 인증 REST 읽기로 바꿨다. 게임 액션은 UI/공통 WS를 그대로 사용한다.
+
+- 최종 4팀 시나리오 verify-yutnori-four.mjs가 success/exit 0으로 끝까지 통과했다. 실제 인증 세션 101/202/505/606, 최신 맵 channel-1에서 E 진입, 4팀·팀별 4개(16개 말), 1개 선택 후 4개 변경, 모두 준비·시작, 던지기·이동 4회, 실제 SVG 29개·큰 원 5개·일반 대각선 원 확인, 작은 세로/낮은 가로 스크롤, 순차 팀 기권 후 황팀 승리, 두 계정의 실제 WASD 이동을 확인했다. evidence: qa-four-teams.
+- 빽도 캡처 backdo-component-fixture.png는 실제 StickResult에 mask=1을 준 별도 시각 fixture다. 서버 난수 결과를 조작하지 않았다. 서버의 빽도 판정과 후퇴 경로는 단위 테스트에서 검증했다.
+- FE TypeScript는 후속 변경까지 통과했다. 이 후속 작업에서 production build는 반복하지 않았다. 위 production build 통과는 최초 2팀 통합 시점의 기록이다.
+
+- 마지막 기본 2팀 전체 회귀도 verify-yutnori.mjs mode=full, success/exit 0으로 통과했다. 방 생성·참가·던지기/이동·202 재로딩 복구·505 관전/채팅/핑·두 화면 크기·기권·두 계정 이동을 한 번의 전체 실행으로 확인했다. 최초 통합 당시의 부분 재검수 기록과 구분한다.
+- 제목 영역의 어색한 한 글자 줄바꿈을 줄이고 첫 도 안내가 대각선 칸과 겹치지 않게 배치했다. 최종 화면을 qa/game-desktop.png, qa-four-teams/settings-four.png와 작은 화면 캡처로 확인했다.
+- 작업 서버를 유지한다: FE 5244, BE 19185. 링크 101/202는 서로 다른 host로 세션이 분리되며, 505/606을 추가할 때는 별도 브라우저 프로필/시크릿 창을 사용한다. 실제 외부 인증·DB·재시작 복원 및 Jenkins 결과는 미확인이다. MR/머지는 요청 전까지 보류한다.
